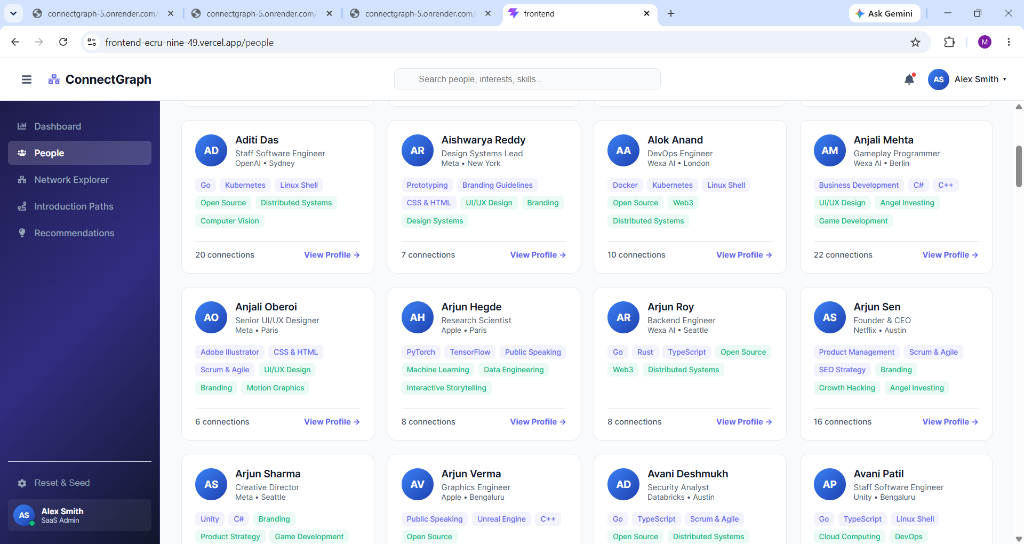
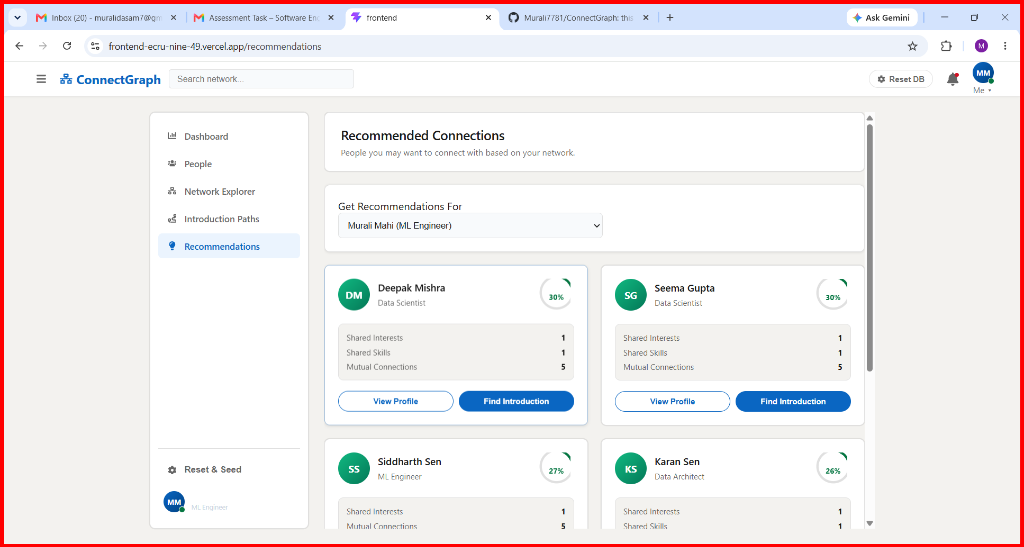
docs: add screenshots for recommendations and profile details to README

diff --git a/README.md b/README.md
@@ -211,6 +211,9 @@ npm install
 ### Recommendations
 ![Recommendations](screenshots/recommendations.png)
 
+### Profile Details (Smart Connections Match)
+![Profile Details](screenshots/profile-details.png)
+
 
 ---
 
